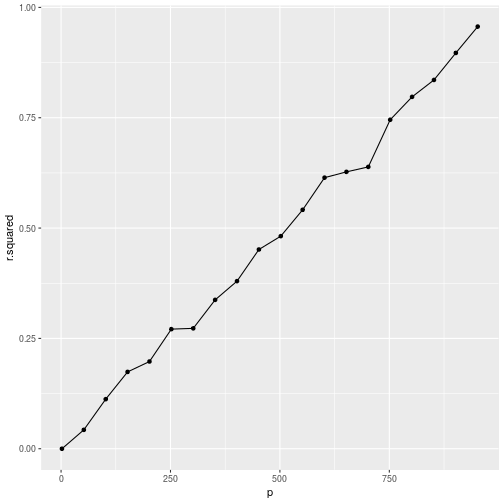
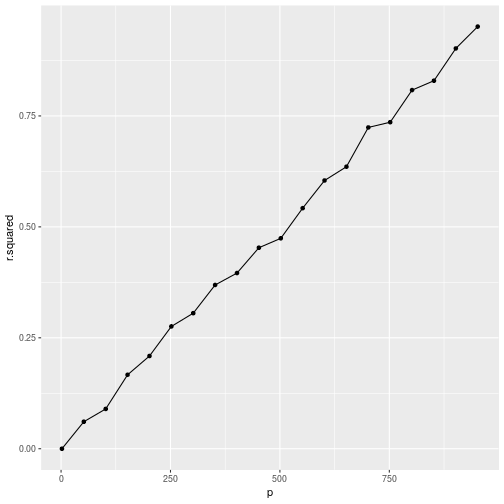
Fixed typo

diff --git a/Chapter_6/notes.html b/Chapter_6/notes.html
@@ -542,7 +542,8 @@ tibble(n = 200:7) %&gt;%
 
 <p>From there we can plot the number of predictors versus the \(R^2\) value that was calculated by performing a linear regression on all of them.</p>
 
-<pre><code class="r">tibble(p = seq(2,1000, 50)) %&gt;%
+<pre><code class="r">set.seed(1)
+tibble(p = seq(2,1000, 50)) %&gt;%
     mutate(data = map(p, ~unnest(as.tibble(rbind(map(1:.x, ~rnorm(1000))))))) %&gt;%
     mutate(model = map(data, ~lm(V1~., .x)),
            model_data = map(model, ~glance(.x))) %&gt;%
@@ -551,13 +552,7 @@ tibble(n = 200:7) %&gt;%
     geom_point() + geom_line()
 </code></pre>
 
[1 lines of base64/hex data omitted]
-
-<pre><code class="r">library(glmnet)
-</code></pre>
-
-<pre><code>## Error in library(glmnet): there is no package called &#39;glmnet&#39;
-</code></pre>
[1 lines of base64/hex data omitted]
 
 <p>We can clearly see the \(R^2\) increases as the curse of dimensionality takes effect.</p>
 

diff --git a/Chapter_6/notes.md b/Chapter_6/notes.md
@@ -332,6 +332,7 @@ From there we can plot the number of predictors versus the $R^2$ value that was 
 
 
 ```r
+set.seed(1)
 tibble(p = seq(2,1000, 50)) %>%
     mutate(data = map(p, ~unnest(as.tibble(rbind(map(1:.x, ~rnorm(1000))))))) %>%
     mutate(model = map(data, ~lm(V1~., .x)),
@@ -342,14 +343,6 @@ tibble(p = seq(2,1000, 50)) %>%
 ```
 
 ![plot of chunk 6.4.4](figure/6.4.4-1.png)
-
-```r
-library(glmnet)
-```
-
-```
-## Error in library(glmnet): there is no package called 'glmnet'
-```
 
 We can clearly see the $R^2$ increases as the curse of dimensionality takes effect.
 
